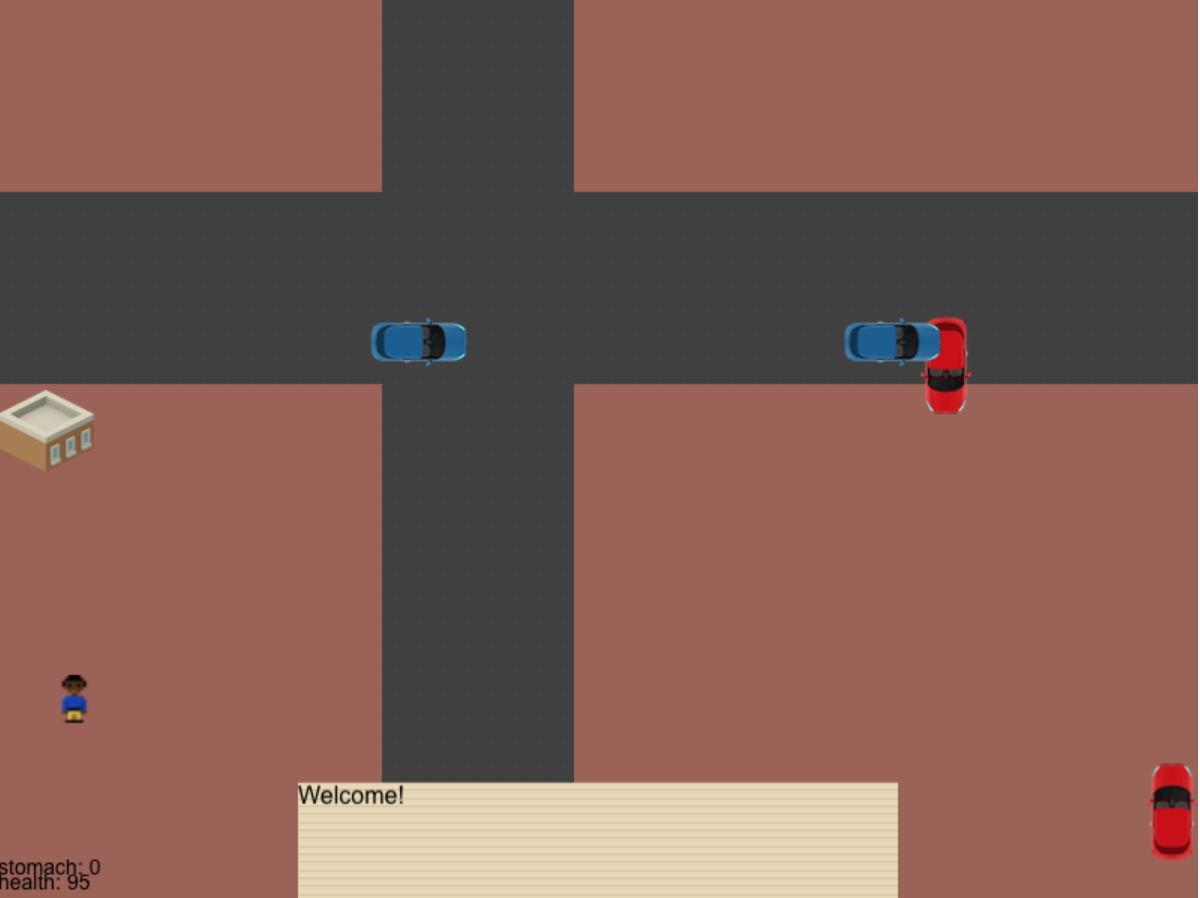
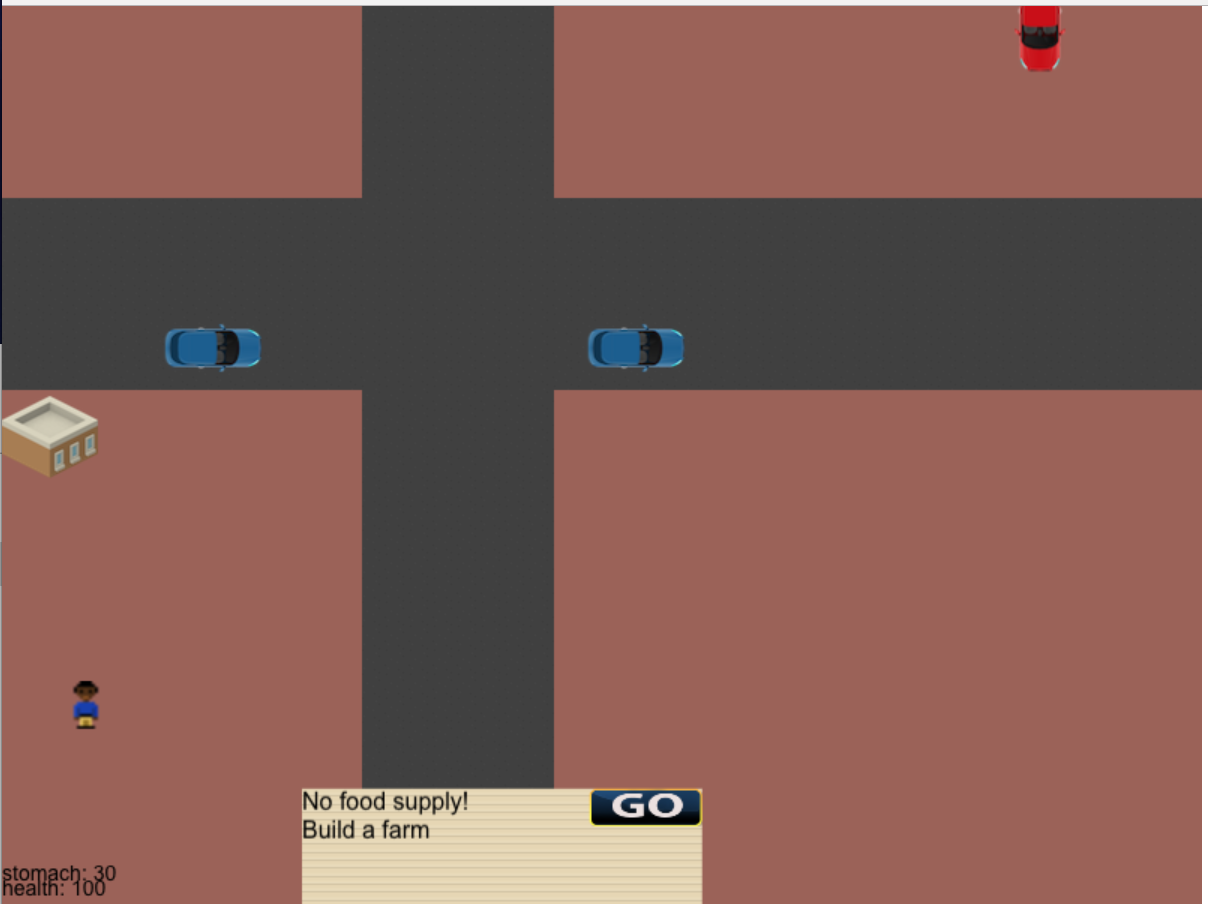
about 1% done

diff --git a/js/demo.js b/js/demo.js
@@ -3,21 +3,37 @@ var cursors;
 
 
 
-var StateAlert = function(banner_text, button_text,callback_function){
 
-}
 
 /*
 0 = farm
 */
 var Farm = function(x,y,sprite_name){
+    this.x=x;
+    this.y=y;
+    this.sprite_name=sprite_name;
+
     this.HealthDropRateInMinutes = 30;
     this.HealthDropAmount = 25;
     this.stomachAdd = 10;
     this.health = 20;
-
-
     this.nourishmentKind=0;
+
+    width=image_map[sprite_name].width;
+    height=image_map[sprite_name].height;
+
+
+    //can be optimized
+    for(var i=x;i<width+margin;i++){
+        for(var j=y;j<height+margin;j++){
+            if(world[i][j]){
+                console.log("couldn't add " + sprite_name);
+                alert("Can't add here, sorry Bieber dance");
+                return null;
+            }
+            world.grid[i][j]=1;
+        }
+    }
 
     this.farm = game.add.sprite(x, y, sprite_name);
     //game.physics.arcade.enable(this.home);
@@ -41,12 +57,41 @@ Farm.prototype.FeedPerson = function(person){
 //     this.health += 5;
 // }
 
+var margin=5;
+var stringFarm = "farm";
 
+function BuildAFarm(){
+    world.buildingKind = stringFarm;
+    world.buildBuildingMode = true;
+    console.log("built your fucking farm");
+}
 
 
 var Home = function(x, y, sprite_name){
-   
+    this.x=x;
+    this.y=y;
+    //do i really need this
+    this.sprite_name=sprite_name;
+    
+
+    width=image_map[sprite_name].width;
+    height=image_map[sprite_name].height;
+
+
+    //can be optimized
+    for(var i=x;i<width+margin;i++){
+        for(var j=y;j<height+margin;j++){
+            if(world[i][j]){
+                console.log("couldn't add " + sprite_name);
+                return null;
+            }
+            world.grid[i][j]=1;
+        }
+    }
+
     this.home = game.add.sprite(x, y, sprite_name);
+
+
     //game.physics.arcade.enable(this.home);
     game.physics.enable(this.home, Phaser.Physics.ARCADE);
 
@@ -62,12 +107,50 @@ Home.prototype.GetSprite = function(){
 }
 
 
+var Road = function(x,y, width,height, sprite_name){
+    this.sprite_name=sprite_name;
+    this.x=x;
+    this.y=y;
+    this.road = game.add.tileSprite(x, y, width, height, sprite_name);
+
+
+
+
+    roads.push(this);
+}
+
+Road.prototype.GetSprite = function(){
+    return this.road;
+}
+
 var World = function(){
+
+    this.buildBuildingMode = false;
+    this.buildingKind = "";
+
     this.clock=0;
     this.day=60;
     this.minute=0;
     this.second=0;
 
+    //create 2D grid
+    this.grid = new Array(game.world.width);
+    for(var i=0;i<game.world.width;i++){
+        this.grid[i] = new Array(game.world.height);
+    }
+    for(var i=0;i<game.world.width;i++){
+        for(var j=0;j<game.world.height;j++){
+            this.grid[i][j]=0;
+        }
+    }
+
+
+    //make sure global states are updated
+    this.stateBannerCurrent = null;
+    // this.BannerFunctionToDispatch=null;
+
+
+    this.IndexPreviousBanner = -1;
 
     var road_main;
     var road_rib_barrier_top;
@@ -75,7 +158,8 @@ var World = function(){
     var road_main_barrier_left;
     var road_main_barrier_right;
 
-
+    //800 console.log(game.world.width);
+    //600 console.log(game.world.height);
 
 
     game.add.tileSprite(0, 0,game.world.width ,game.world.height, 'earth');
@@ -84,8 +168,8 @@ var World = function(){
     var home_protagonist = new Home(0, 260, 'home_brown');
 
 
-    road_main = game.add.tileSprite(32*8, 0, 128 ,game.world.height, 'road_main');
-    road_rib = game.add.tileSprite(0, 32*4,game.world.width , 32*4, 'road_main');
+    road_main = new Road(30*8, 0, 128 ,game.world.height, 'road_main');
+    road_rib = new Road(0, 32*4,game.world.width , 32*4, 'road_main');
     
 
 
@@ -107,13 +191,30 @@ var World = function(){
     this.healthText = game.add.text(0, game.world.height-20, 'health: ' + protagonist.health, { font:"14px Arial",fill: '#000' });
 
 
-    var stateTextX=game.world.width/4;
-    var stateTextY=game.world.height/1.15;
+    this.stateBannerX=game.world.width/4;
+    this.stateBannerY=game.world.height/1.15;
+    this.stateBannerWidth=game.world.width/3;
+    this.stateBannerHeight=game.world.height/7;
    
-    var stateBanner = game.add.tileSprite(stateTextX, stateTextY, game.world.width/2 , game.world.height/7, 'background_state');
-    this.stateText = game.add.text(stateTextX, stateTextY, 'Welcome! ', { font:"16px Arial",fill: '#000' });
+    this.stateBanner = game.add.tileSprite(this.stateBannerX, this.stateBannerY, this.stateBannerWidth , this.stateBannerHeight, 'background_state');
+    this.stateBannerText = game.add.text(this.stateBannerX, this.stateBannerY, 'Welcome! ', { font:"16px Arial",fill: '#000' });
 
+
+
+    //hardcoded here
+    this.stateBannerButton = game.add.button(this.stateBannerX+this.stateBannerWidth-75,this.stateBannerY, 'button_banner', bannerCallbackDispatch, this);
+    this.stateBannerButton.width=75;
+    this.stateBannerButton.height=25;
+   
 }
+
+
+function bannerCallbackDispatch() {
+    console.log('Dispatch here mate');
+    this.stateBannerCurrent.callback_function();
+}
+
+
 
 var secondsInMinute = 10;
 var stomachDropRateInMinutes = 1;
@@ -133,18 +234,74 @@ World.prototype.update = function(){
             console.log(+this.minute + " minute");
             this.minuteJustArrived=true;
         }
-        console.log("second " + this.second);
+       // console.log("second " + this.second);
     }
     
+
 
     this.UpdatePhysics();
     this.UpdateHealth();
     this.UpdateStateBanner();
-
+    this.StateMachine();
+    this.UserInputDetection();
 
    
 
 }
+
+
+// var LookForPreExistingBanner = function(func){
+
+//     for(var i=0;i<StateAlertObjects.length;i++){
+//         if(StateAlertObjects[i].callback_function == func){
+//             return StateAlertObjects[i];
+//         }
+//     }
+//     return null;
+// }
+var LookForPreExistingBannerIndex = function(func){
+
+    for(var i=0;i<StateAlertObjects.length;i++){
+        if(StateAlertObjects[i].callback_function == func){
+            return i;
+        }
+    }
+    return -1;
+}
+
+
+var NoFoodSupply="No food supply!";
+//ensure before update banner, we are sure state banner object doesn't already exist
+World.prototype.StateMachine=function(){
+
+    //do house cleaning
+    if(StateAlertObjects.length == 0){this.stateBannerCurrent = null;}
+
+
+    if(nourishments.length == 0){
+        if(LookForPreExistingBannerIndex(BuildAFarm) < 0){
+            var FarmAlert = new StateAlert("No food supply!\nBuild a farm",BuildAFarm);
+            StateAlertObjects.push(FarmAlert); 
+        }
+    } else{
+        //here, we have food source
+        var bannerObjectIndex = LookForPreExistingBannerIndex(BuildAFarm);
+        if(bannerObjectIndex >= 0){
+            StateAlertObjects.splice(bannerObjectIndex,1);
+        }
+    }
+
+
+    
+    //do house cleaning
+    if(StateAlertObjects.length == 0){
+        this.stateBannerCurrent = null;
+        this.stateBannerText.text = "";
+    }
+    
+}
+
+
 
 World.prototype.UpdateHealth=function(clock){
 
@@ -206,8 +363,23 @@ World.prototype.UpdatePhysics=function(){
 
 }
 
+World.prototype.UserInputDetection=function(){
+    if(this.buildBuildingMode && game.input.activePointer.isDown){
+        console.log("Built a farm");
+         if (this.buildingKind == stringFarm){
+            var f = new Farm(game.input.mousePointer.x,game.input.mousePointer.y,"farm_new");
+         }
+
+         this.buildBuildingMode=false;
+    }
+}
+
+
 
 var Person = function(x, y, sprite_name){
+    this.x=x;
+    this.y=y;
+
 	this.direction = 'right';
 
     this.maxStomach=60;
@@ -239,9 +411,29 @@ var Person = function(x, y, sprite_name){
 };
 
 
+
+var StateAlertObjects = [];
+//stateTexts
+var StateAlert = function(banner_text, callback_function){
+    //this.stateText 
+    this.banner_text = banner_text;
+    this.callback_function = callback_function;
+}
+
 World.prototype.UpdateStateBanner=function(){
 
-    
+    if(StateAlertObjects.length == 0) return;
+    var next = (world.IndexPreviousBanner+1)%StateAlertObjects.length;
+    world.IndexPreviousBanner = next;
+
+    banner=StateAlertObjects[next];
+
+    //console.log(StateAlertObjects);
+
+    this.stateBannerText.text = banner.banner_text;
+    this.stateBannerCurrent = banner;
+
+
 
 }
 
@@ -345,6 +537,9 @@ Food.prototype.GetNutrition = function(){
 }
 
 var Car = function(x, y, sprite_name){
+    this.x=x;
+    this.y=y;
+    this.sprite_name=sprite_name;
 
     this.p=100;
 
@@ -445,29 +640,45 @@ Car.prototype.UpdateHealth = function(){
 
 
 
-
+var roads = [];
 var people = [];
 var cars = [];
 var homes =[];
 var protagonist;
 var nourishments =[];
+var stateTexts= [];
 
+var image_map = {};
 
+function load_image(image,width,height){
+    image_map[image] = [width,height];
+    game.load.image(image, 'assets/'+image+ '.png');
+}
 
+function load_sprite(image,width, height){
+    image_map[image] = [width,height];
+    game.load.spritesheet(image, 'assets/'+image+ '.png', width, height);
+}
 
 function preload() {
 
 
-    game.load.image('car_blue', 'assets/car_blue.png');
-    game.load.image('car_red', 'assets/car_red.png');
+    // game.load.image('car_blue', 'assets/car_blue.png');
+    // game.load.image('car_red', 'assets/car_red.png');
 
-    // game.load.spritesheet('dude', 'assets/dude.png', 32, 48);
-    game.load.spritesheet('villager', 'assets/villager.png', 16, 16);
-    game.load.spritesheet('earth', 'assets/earth.png', 16, 16);
-    game.load.spritesheet('road_main', 'assets/road_main.png', 16, 16);
-    game.load.spritesheet('home_brown', 'assets/home_brown.png', 64, 55);
+    load_image('car_blue',32,64);
+    load_image('car_red',32,64);
 
-    game.load.spritesheet('background_state', 'assets/background_state.png', 16, 16);
+
+    load_sprite('villager',16, 16);
+    load_sprite('earth',16, 16);
+    load_sprite('road_main',16, 16);
+    load_sprite('home_brown',64, 55);
+    load_sprite('farm_new',16, 16);
+
+    load_sprite('background_state',16, 16);
+    load_sprite('button_banner',128, 64);
+
 }
 
 
